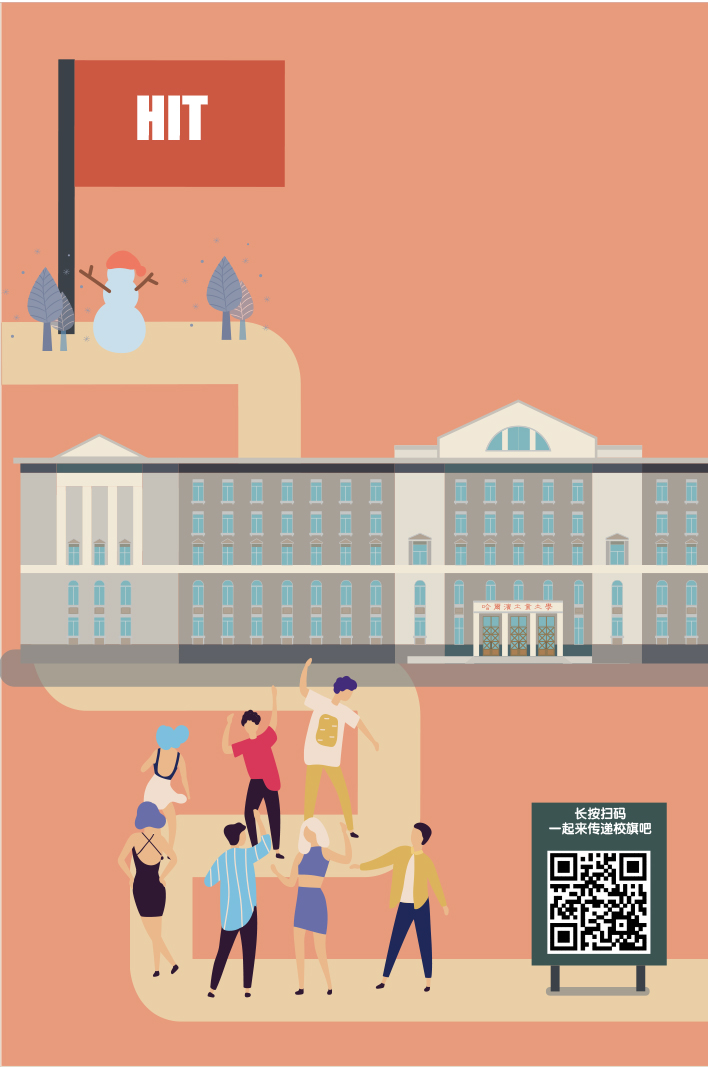
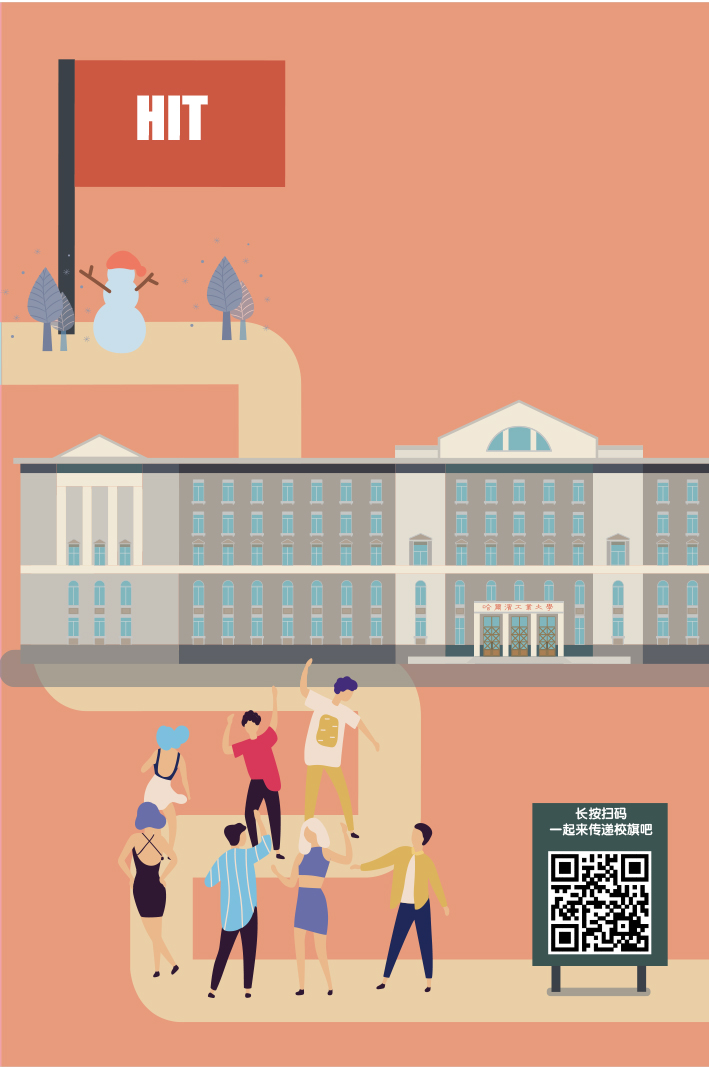
update

diff --git a/js/main.js b/js/main.js
@@ -129,7 +129,7 @@ function getRandom(rank){
             },
             pos:{
                 x:320,
-                y:50,
+                y:25,
             },
         })
         .draw( b64 =>{
